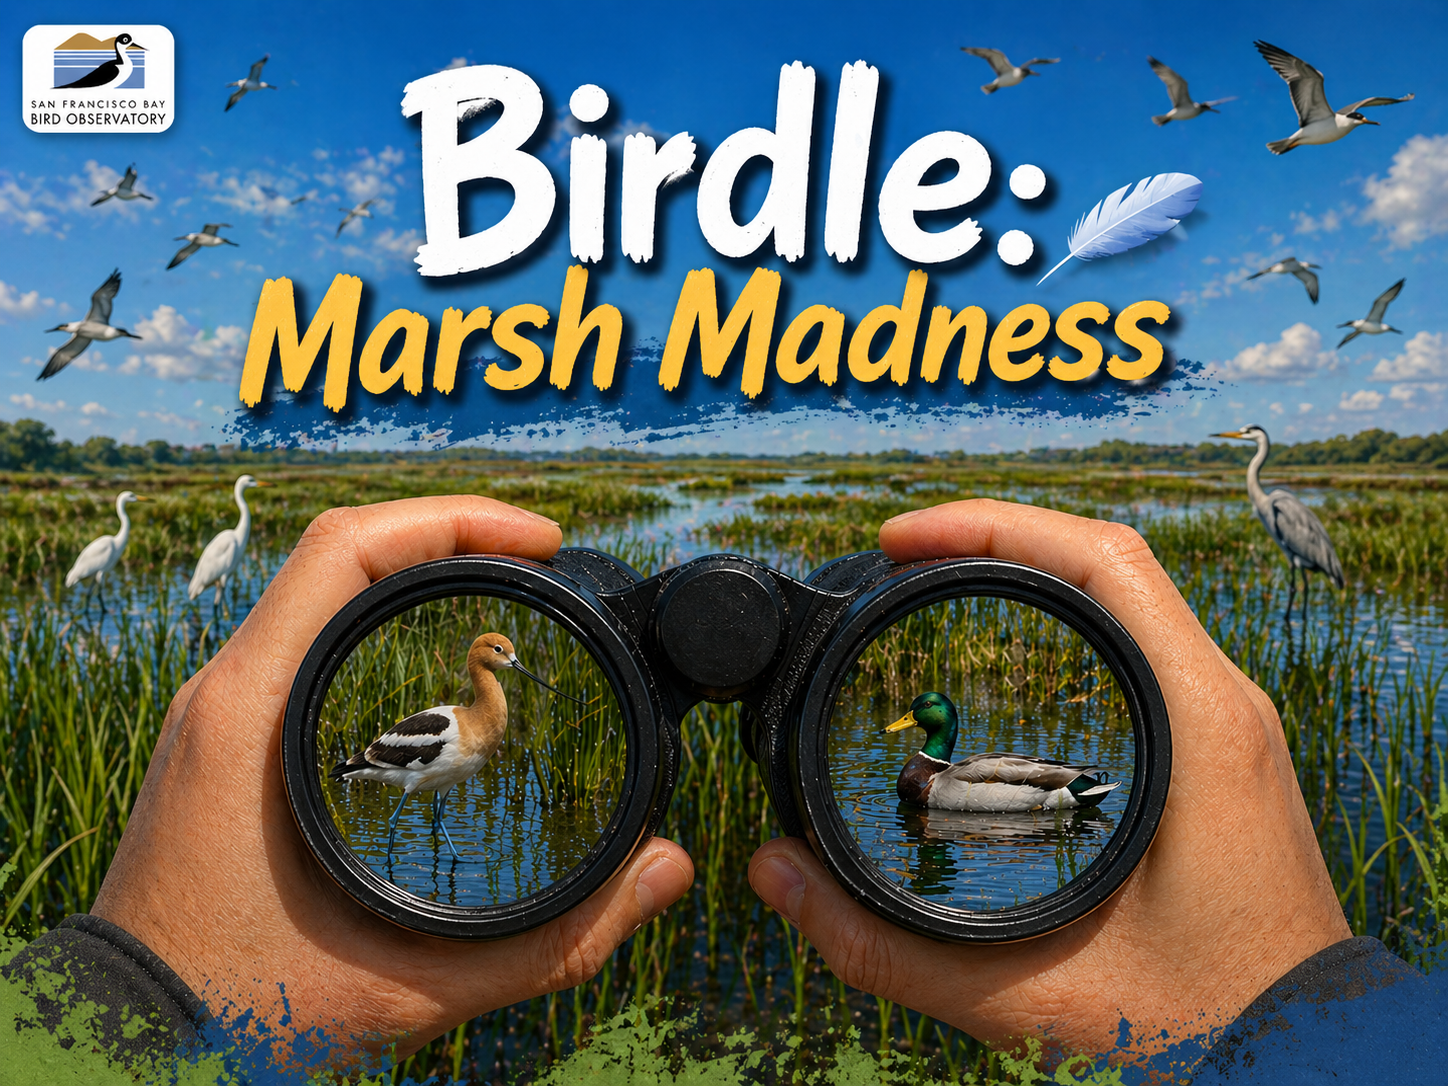
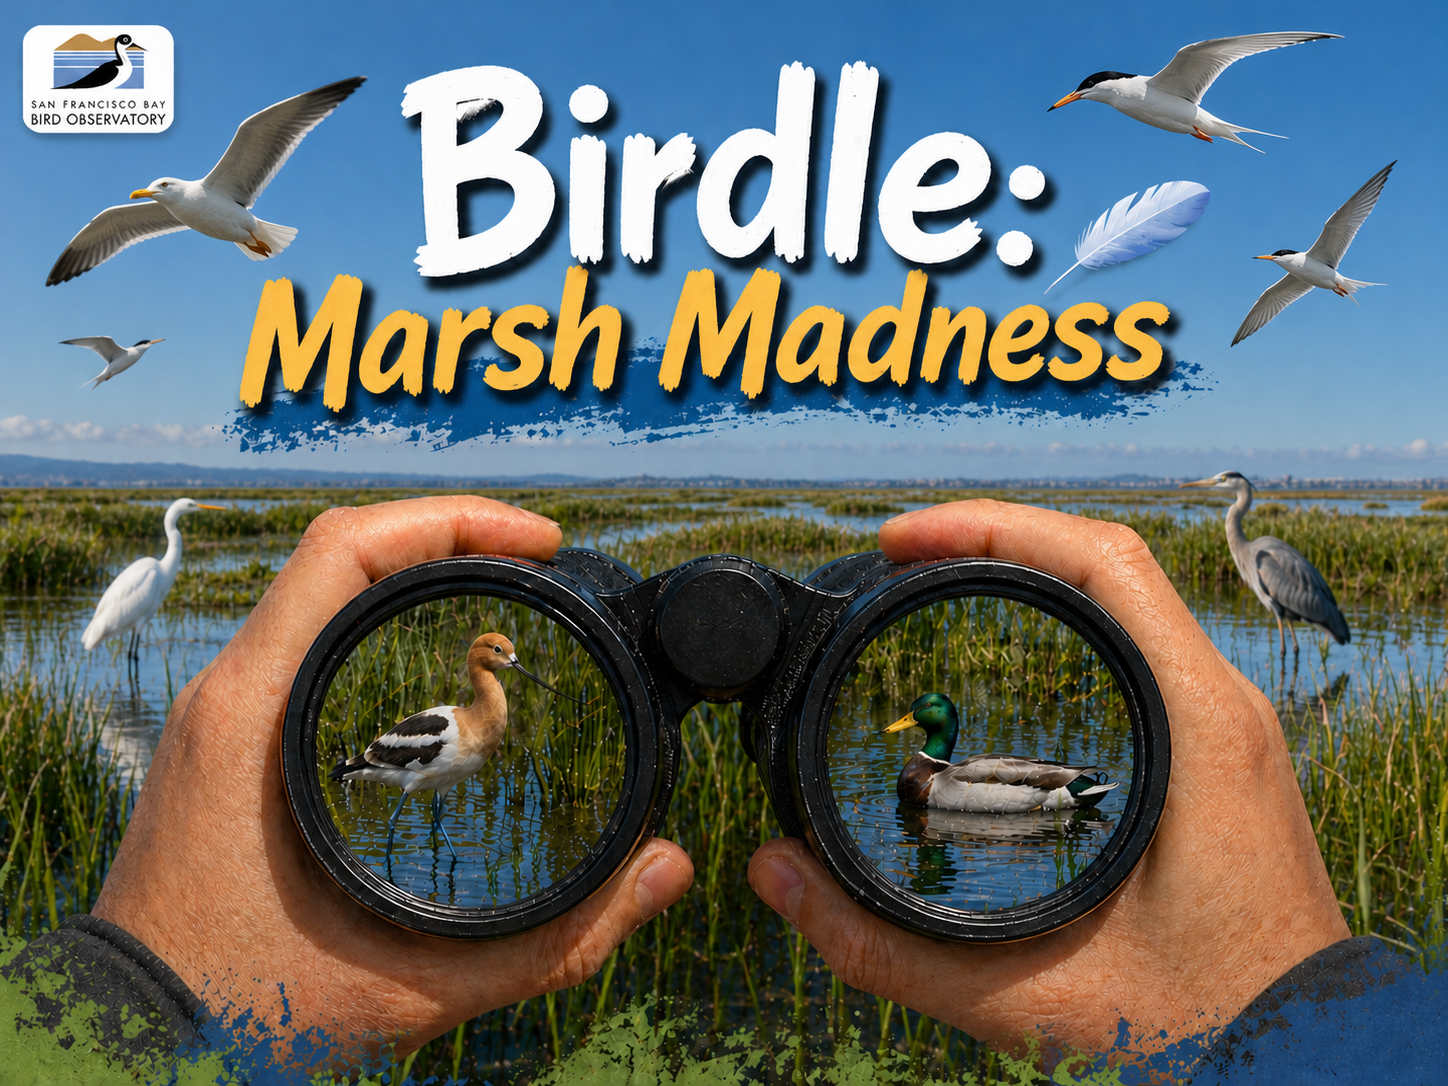
Update SW cache to v15 and replace poster
Bump service worker CACHE_NAME from v14 to v15 to force clients to refresh cached assets. Also replace assets/marsh_madness_poster.png with an updated binary image (poster updated).

diff --git a/sw.js b/sw.js
@@ -1,4 +1,4 @@
-const CACHE_NAME = 'birdle-marsh-madness-v14';
+const CACHE_NAME = 'birdle-marsh-madness-v15';
 
 const APP_SHELL = [
   './',
